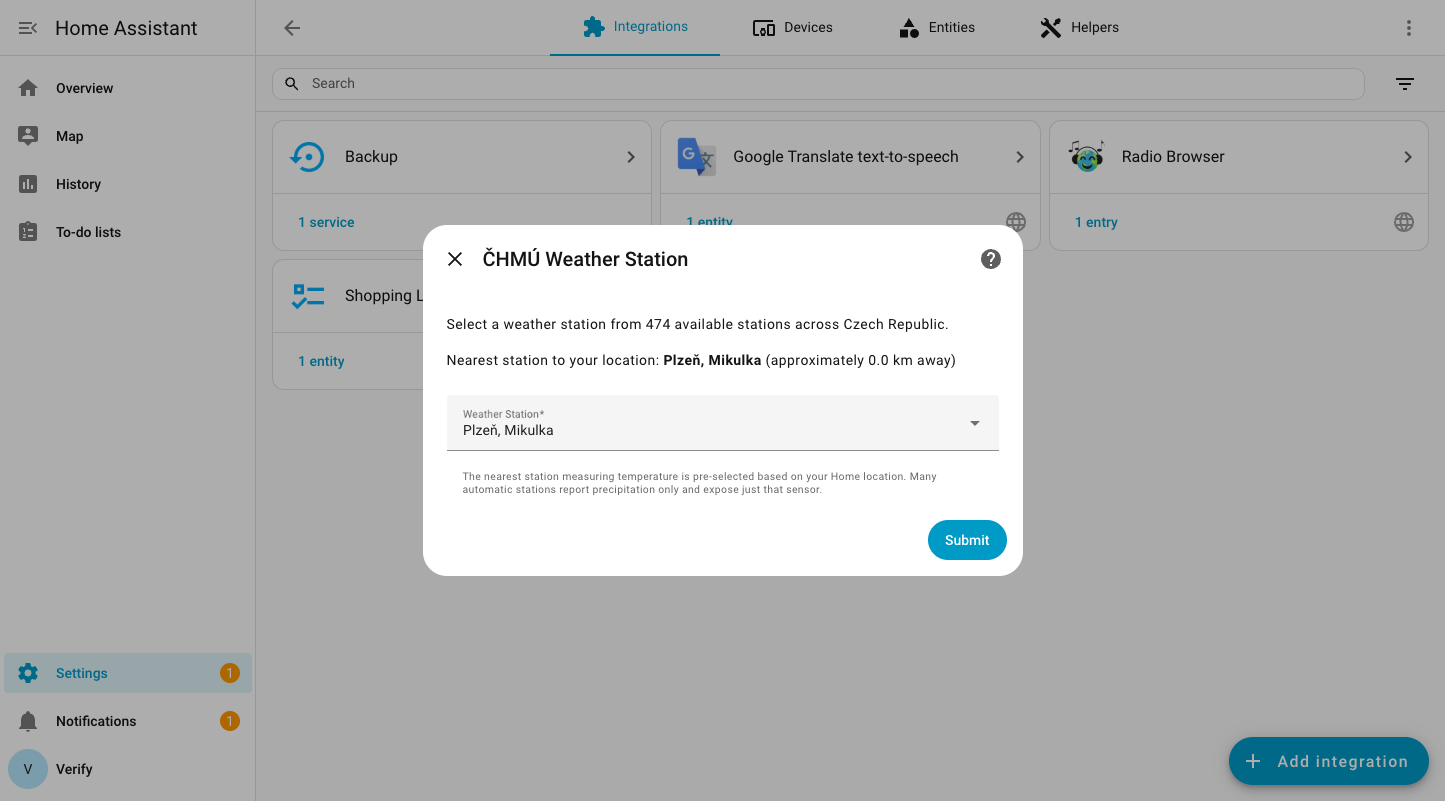
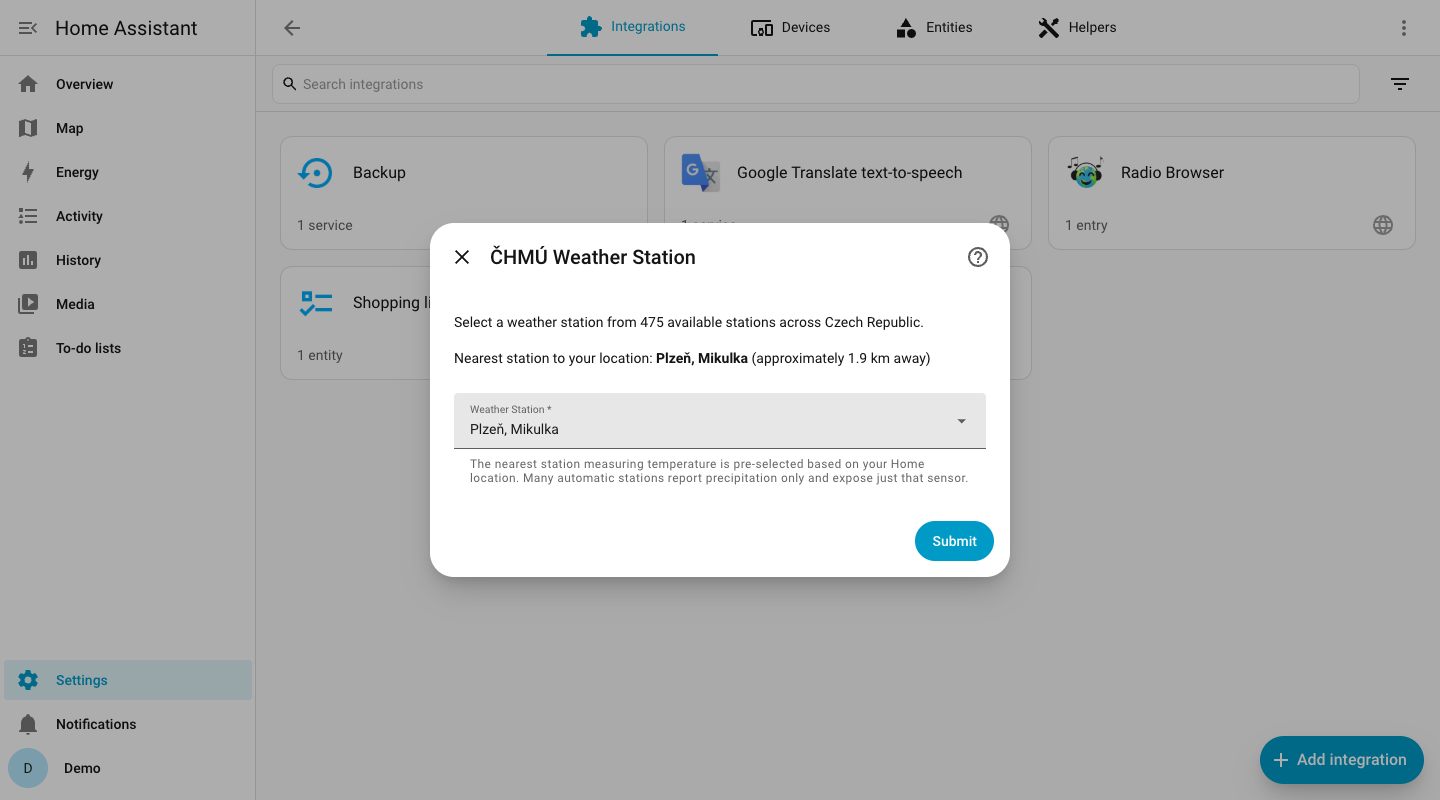
docs(readme): explain the forecast horizon and refresh screenshots
Add a "How far ahead" table (62-70 h hourly, 3 days daily, nothing past
that and why), shorten the feature sections, correct stale facts (station
counts, entity ids, scheduler, a fallback that does not exist) and retake
the screenshots on Home Assistant 2026.10.

diff --git a/README.md b/README.md
@@ -4,7 +4,7 @@
 
 🇬🇧 **Home Assistant integration providing weather data from Czech Hydrometeorological Institute (ČHMÚ) meteorological stations. Primarily intended for Czech audience due to the geographic proximity of weather stations.**
 
-![Brno weather station](assets/brno_sensor_teaser.png)
+![Weather entity with the per-station forecast next to the measured sensors](assets/weather-forecast-dashboard.png)
 
 ---
 
@@ -40,62 +40,47 @@ A Home Assistant integration to fetch weather data from ČHMÚ (Czech Hydrometeo
 ## Configuration
 
 The integration is configured via the UI (Config Flow). No YAML configuration is needed.
+The station nearest to your Home location is pre-selected.
+
+![Config flow with the nearest station pre-selected](assets/weather-config-flow.png)
 
 ## Features
 
-- Fetches weather data from all ČHMÚ stations publishing 10-minute data —
-  the 40 professional WMO stations plus ~430 automatic stations
-- Provides temperature, humidity, pressure, precipitation, wind speed and
-  wind direction, plus the ČHMÚ text forecast for the Czech Republic
-- A weather entity with a **per-station forecast**: 72 hours hourly and 3 days
-  daily, from the ČHMÚ ALADIN 1 km model sampled at your station's coordinates
-- Creates only the sensors a station actually measures (many automatic
-  stations report precipitation only)
-- Pre-selects the station nearest to your Home Assistant location
-- Keeps every 10-minute measurement as **hourly statistics**, not just the
-  newest one (see below)
-- Easy configuration through the Home Assistant UI
+- Data from all ~475 ČHMÚ stations publishing 10-minute measurements; the
+  nearest one is pre-selected
+- Sensors for temperature, humidity, pressure, precipitation, wind speed and
+  direction (only those the station measures), plus the national text forecast
+- A weather entity with a **per-station forecast** from the ČHMÚ ALADIN 1 km
+  model - see [How far ahead](#how-far-ahead)
+- Every 10-minute measurement kept as **hourly statistics**
 
 ### Hourly statistics
 
-ČHMÚ measures every 10 minutes but publishes an hour's six measurements in one
-go, so only the newest one can become the sensor's state — the other five used
-to be thrown away. They are now kept as long-term statistics, one row per hour
-carrying that hour's real mean, minimum and maximum.
-
-They appear in the statistics picker (for example in a Statistics graph card)
-as `chmu:{station}_{element}`, e.g. `chmu:11450_temperature`, named after your
-station. Nothing needs configuring; a recorder has to be enabled, which it is
-in a default Home Assistant installation.
-
-Precipitation is not included, and the five extra readings cannot be shown on
-the sensor's own history graph: Home Assistant can only store imported
-statistics at whole hours, and it has no way to backdate a sensor state.
+ČHMÚ publishes an hour's six 10-minute readings at once, so only the newest can
+become the sensor state. The rest are kept as hourly statistics (mean, min, max)
+named `chmu:{station}_{element}`, e.g. `chmu:11450_temperature`, ready for a
+Statistics graph card. Precipitation is not included.
 
 ### Where the forecast comes from
 
-ČHMÚ publishes forecasts only as national prose for 14 regions or as raw model
-output — roughly 70 MB of GRIB per run, which no integration can download every
-hour. The national text is up to 10 °C off for mountain stations, so this
-integration does not use it for the forecast.
+ČHMÚ's raw model output is ~70 MB per run, too much for Home Assistant to
+download. A [job in this repository](.github/workflows/forecast-data.yml)
+samples each new ALADIN CZ_1km run at ~750 station coordinates and publishes
+~1.5 kB per station on GitHub Pages; your Home Assistant fetches only its own
+station's file. No account, token or analytics. A forecast older than 18 hours
+logs a warning, a model run older than 48 hours is refused. Details in
+[`ARCHITECTURE.md`](custom_components/chmu/ARCHITECTURE.md).
 
-Instead a scheduled job in this repository
-([`.github/workflows/forecast-data.yml`](.github/workflows/forecast-data.yml))
-downloads one ALADIN CZ_1km run, samples the ~1 km grid at all 758 station
-coordinates and publishes about 1.5 kB per station as a static site. Your Home
-Assistant fetches only its own station's file, and revalidates with an ETag so
-an unchanged forecast transfers no body at all.
+### How far ahead
 
-The request carries no account, no token and no identifier beyond a
-User-Agent. GitHub Pages logs it the way any web server logs a request; this
-project adds nothing on top - no analytics, no counters, no personal data, and
-no server of its own to collect them on. If the job ever stops, the integration
-warns once the data it is serving is 18 hours old and refuses a model run older
-than 48 hours rather than quietly showing a week old one. The measured sensors
-keep working either way.
+| Forecast | Available | Why |
+|---|---|---|
+| Current conditions | every 10 minutes | Measured at the station, not modelled. |
+| Hourly | 62–70 hours | ALADIN runs every 6 hours and reaches 72 hours ahead, but each run is published 3–4½ hours after it starts. |
+| Daily | 3 days (4 in the evening) | A day is shown only when the model covers its afternoon high. Once the model run no longer covers last night, today's low is the minimum the station measured. |
+| Beyond 3 days | not offered | ČHMÚ's longer forecast is national only and ignores altitude (~10 °C between Sněžka and Plzeň). No data beats a guess. |
 
-See [`custom_components/chmu/ARCHITECTURE.md`](custom_components/chmu/ARCHITECTURE.md)
-for the pipeline in detail.
+![More-info dialog with the hourly forecast](assets/weather-forecast-hourly.png)
 
 ## Development
 
